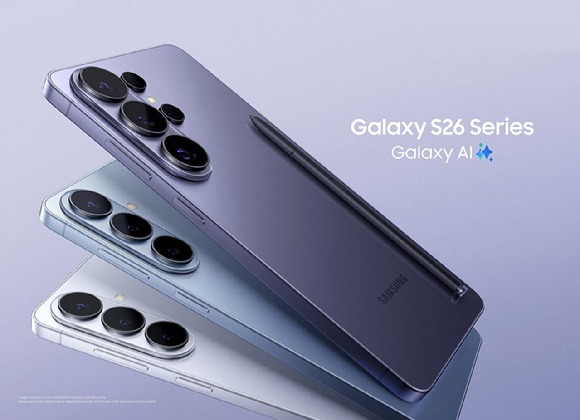
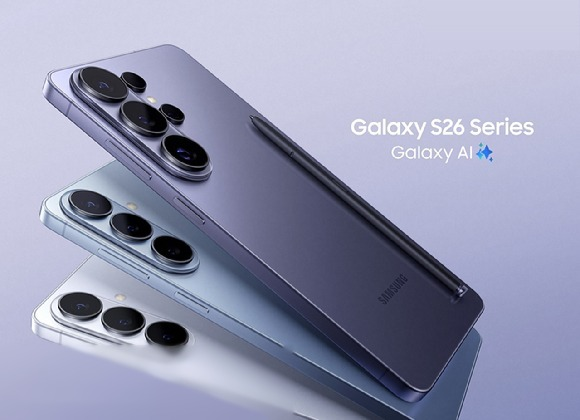
s26_lineup_new.jpg 흰 글자 디스클레이머 픽셀 단위 인페인팅 제거 + 캐시버스터

Changed region(s): [[0.1552, 0.8048, 0.3724, 0.9286], [0.3724, 0.9286, 0.4655, 0.9595], [0.4655, 0.9595, 0.4966, 0.9905]]

diff --git a/apply_google_demand/index.html b/apply_google_demand/index.html
@@ -179,7 +179,7 @@ height="0" width="0" style="display:none;visibility:hidden"></iframe></noscript>
 
     <!-- Galaxy S26 제품 이미지 (세로 확장) -->
     <div class="lim-hero-wrap" style="position:relative;max-width:100%;margin:10px auto 22px;aspect-ratio:29/21;border-radius:16px;overflow:hidden;background:transparent">
-      <img src="../s26_lineup_new.jpg" alt="Galaxy S26 시리즈" style="width:100%;height:100%;object-fit:contain;object-position:center;position:absolute;left:0;top:0;display:block">
+      <img src="../s26_lineup_new.jpg?v=clean2" alt="Galaxy S26 시리즈" style="width:100%;height:100%;object-fit:contain;object-position:center;position:absolute;left:0;top:0;display:block">
       <!-- 전국판매 1위 메달 -->
       <div class="lim-medal" style="position:absolute;bottom:6%;right:2%;width:84px;transform:rotate(10deg);z-index:3">
         <div style="position:relative;width:84px;height:84px">

diff --git a/apply_google_kpi/index.html b/apply_google_kpi/index.html
@@ -179,7 +179,7 @@ height="0" width="0" style="display:none;visibility:hidden"></iframe></noscript>
 
     <!-- Galaxy S26 제품 이미지 (세로 확장) -->
     <div class="lim-hero-wrap" style="position:relative;max-width:100%;margin:10px auto 22px;aspect-ratio:29/21;border-radius:16px;overflow:hidden;background:transparent">
-      <img src="../s26_lineup_new.jpg" alt="Galaxy S26 시리즈" style="width:100%;height:100%;object-fit:contain;object-position:center;position:absolute;left:0;top:0;display:block">
+      <img src="../s26_lineup_new.jpg?v=clean2" alt="Galaxy S26 시리즈" style="width:100%;height:100%;object-fit:contain;object-position:center;position:absolute;left:0;top:0;display:block">
       <!-- 전국판매 1위 메달 -->
       <div class="lim-medal" style="position:absolute;bottom:6%;right:2%;width:84px;transform:rotate(10deg);z-index:3">
         <div style="position:relative;width:84px;height:84px">

diff --git a/index.html b/index.html
@@ -176,7 +176,7 @@ height="0" width="0" style="display:none;visibility:hidden"></iframe></noscript>
 
     <!-- Galaxy S26 제품 이미지 (세로 확장) -->
     <div class="lim-hero-wrap" style="position:relative;max-width:100%;margin:10px auto 22px;aspect-ratio:29/21;border-radius:16px;overflow:hidden;background:transparent">
-      <img src="./s26_lineup_new.jpg" alt="Galaxy S26 시리즈" style="width:100%;height:100%;object-fit:contain;object-position:center;position:absolute;left:0;top:0;display:block">
+      <img src="./s26_lineup_new.jpg?v=clean2" alt="Galaxy S26 시리즈" style="width:100%;height:100%;object-fit:contain;object-position:center;position:absolute;left:0;top:0;display:block">
       <!-- 전국판매 1위 메달 -->
       <div class="lim-medal" style="position:absolute;bottom:6%;right:2%;width:84px;transform:rotate(10deg);z-index:3">
         <div style="position:relative;width:84px;height:84px">
